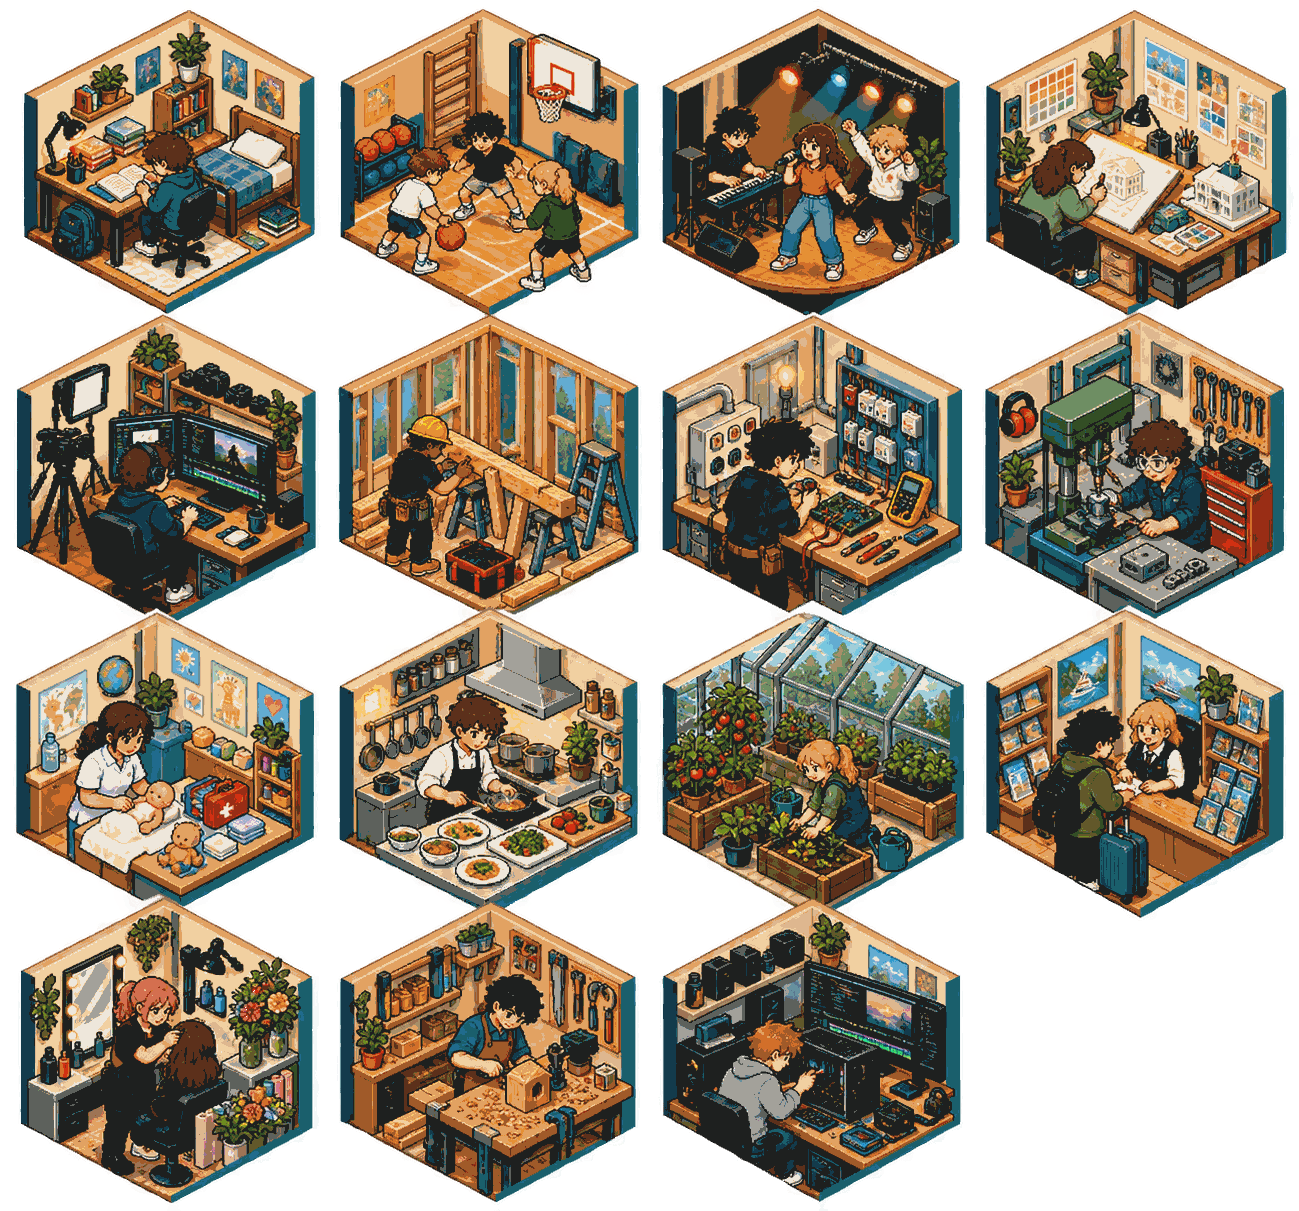
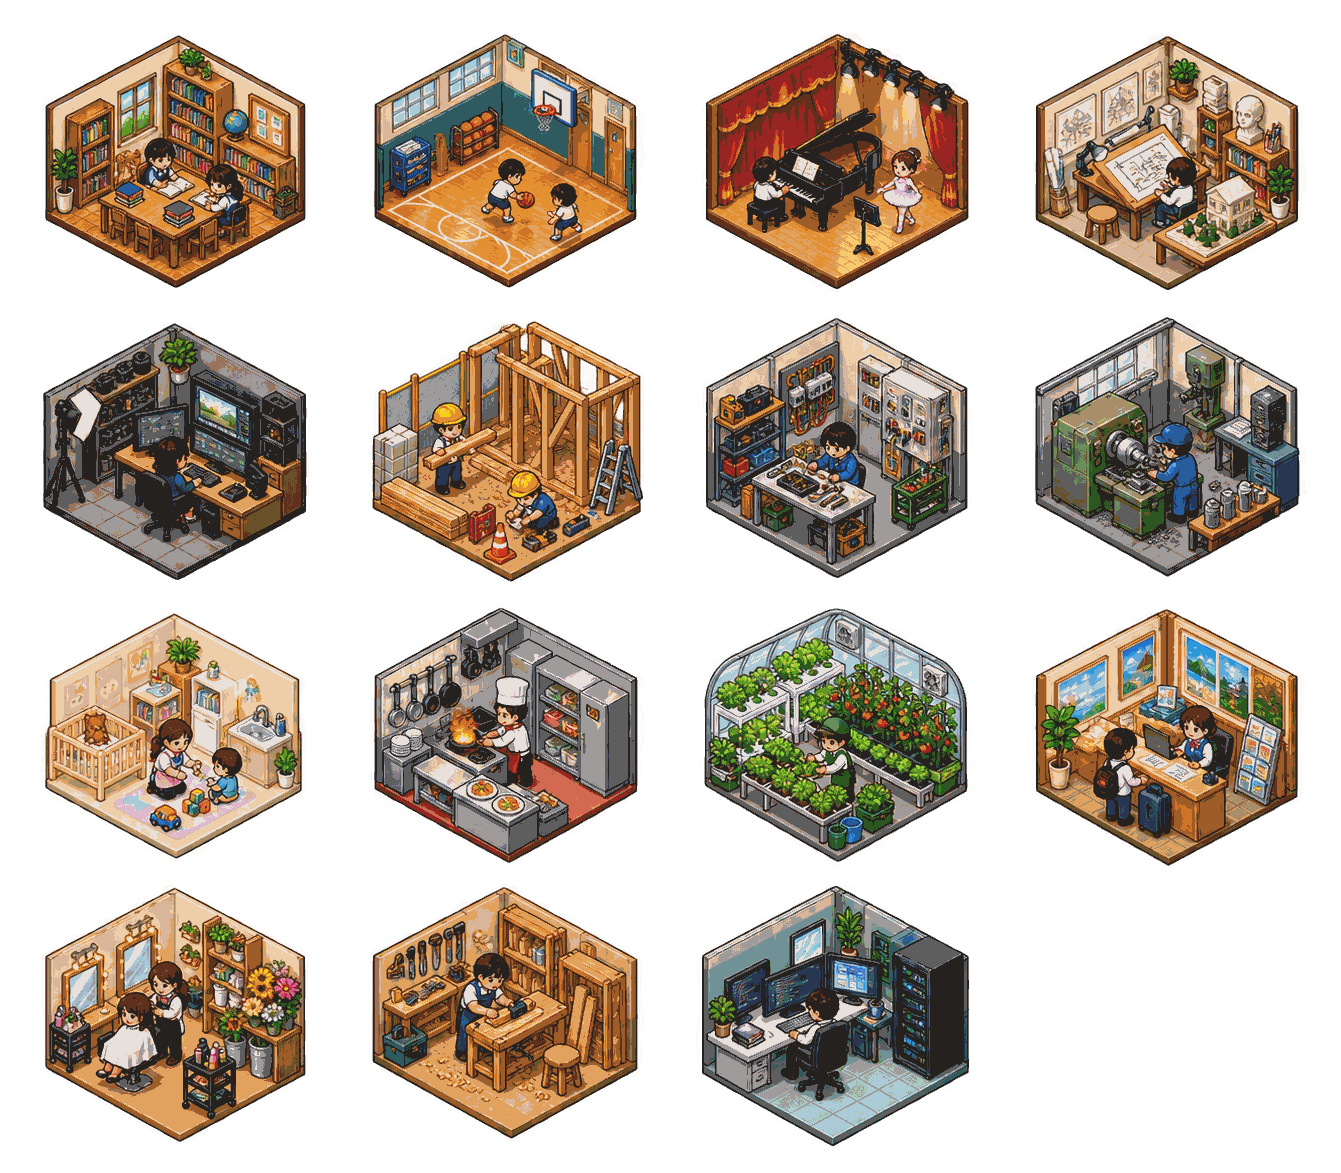
Jamne ut diorama på linjekorta i Livslina

diff --git a/livslina/css/style.css b/livslina/css/style.css
@@ -90,7 +90,8 @@
 .ll-reroll { margin-top: 0.5rem; }
 .ll-line-grid { display: grid; grid-template-columns: repeat(auto-fit, minmax(min(100%, 250px), 1fr)); gap: 0.75rem; }
 .ll-line-card, .ll-housing-card { display: flex; flex-direction: column; align-items: stretch; gap: 0.4rem; min-width: 0; height: auto; padding: 0.85rem; white-space: normal; text-align: left; }
-.ll-program-sprite { display: block; width: 100%; aspect-ratio: 1299 / 1211; border: 1px solid var(--vp-frame); border-radius: calc(var(--vp-radius) * 0.65); background-color: var(--vp-paper); background-image: url("../assets/programs/utdanningsprogram-isometrisk.png"); background-repeat: no-repeat; background-size: 400% 400%; background-position: var(--sprite-x) var(--sprite-y); image-rendering: pixelated; }
+.ll-program-sprite { position: relative; display: block; width: 100%; aspect-ratio: 1341 / 1173; overflow: hidden; }
+.ll-program-sprite::before { position: absolute; inset: 12.5%; content: ""; background-image: url("../assets/programs/utdanningsprogram-isometrisk.png"); background-repeat: no-repeat; background-size: 400% 400%; background-position: var(--sprite-x) var(--sprite-y); image-rendering: pixelated; }
 .ll-line-grant-choice { margin-top: 1rem; padding: 1rem; }
 .ll-line-grant-choice[hidden] { display: none; }
 .ll-line-grant-choice label { display: block; margin-bottom: 0.4rem; font-weight: 700; }

diff --git a/index.html b/index.html
@@ -37,7 +37,7 @@
             </div>
             <aside class="vp-sign vp-sign--grounded vp-home-note" aria-label="Nyaste endringar">
                 <section class="vp-panel vp-panel--wood">
-                    <p class="vp-home-kicker">Nyaste endring på Vyrdepil · Versjon 1.90</p>
+                    <p class="vp-home-kicker">Nyaste endring på Vyrdepil · Versjon 1.91</p>
                     <p><a href="endringar.html">Sjå alle endringar <span aria-hidden="true">→</span></a></p>
                 </section>
             </aside>

diff --git a/livslina/assets/programs/README.md b/livslina/assets/programs/README.md
@@ -3,10 +3,12 @@
 `utdanningsprogram-isometrisk.png` er eit gjennomsiktig 4 × 4-sprite-ark med
 isometriske pikselminiscener. Dei 15 fyrste rutene følgjer rekkjefølgja i
 `data/linjer.json`; ruta nedst til høgre er tom. `js/art-programs.js` koplar
-program-ID til kolonne og rad, og korta viser utsnittet med pikselert kant.
+program-ID til kolonne og rad. Korta viser kvar rute inni eit mindre, sentrert
+utsnitt, slik at alle illustrasjonane får like breie gjennomsiktige margar utan
+ramme eller bakgrunnsfarge.
 
-Biletet er 1299 × 1211 pikslar, har gjennomsiktig bakgrunn og 128 fargar. Det
-komprimerte arket er 310 968 byte.
+Biletet er 1341 × 1173 pikslar, har gjennomsiktig bakgrunn og 128 fargar. Det
+komprimerte arket er 262 099 byte.
 
 | Rad | Kolonne 1 | Kolonne 2 | Kolonne 3 | Kolonne 4 |
 |---|---|---|---|---|

diff --git a/CHANGELOG.md b/CHANGELOG.md
@@ -3,6 +3,11 @@
 Alle merkbare endringar i prosjektet blir dokumenterte her.
 Format: [Keep a Changelog](https://keepachangelog.com/), datoar i ISO 8601.
 
+## [1.91] — 2026-10-06
+
+### Fiksa
+- **Livslina (skjult prøveutgåve): diorama overlappar ikkje lenger på linjekorta.** Illustrasjonane har jamne, gjennomsiktige margar og inga eiga ramme eller bakgrunnsflate.
+
 ## [1.90] — 2026-10-06
 
 ### Endra
